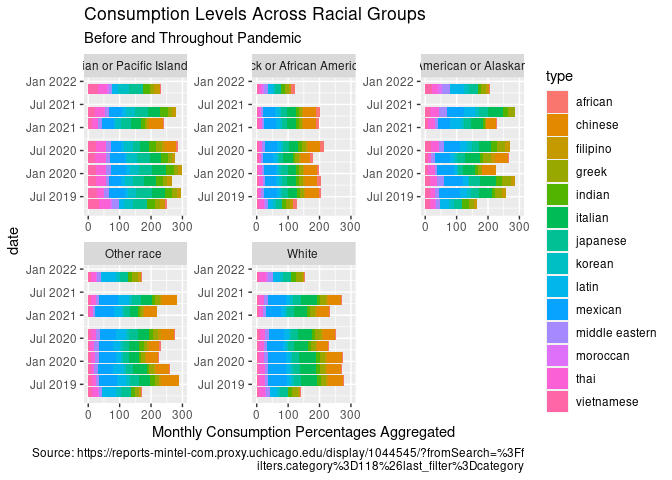
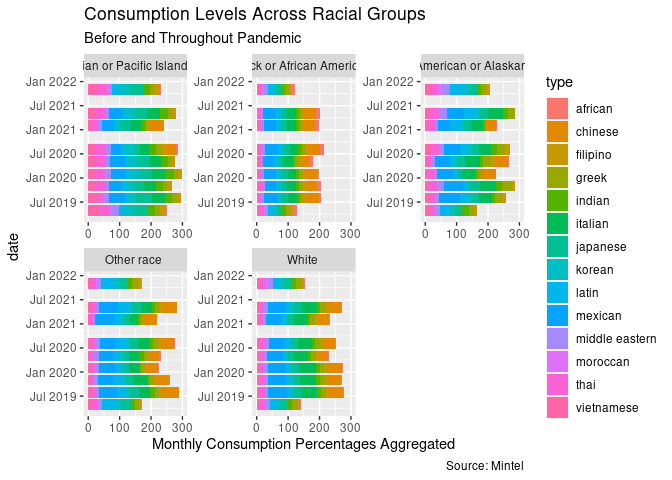
Small changes again

diff --git a/Exploratory-Data-Visualizations.md b/Exploratory-Data-Visualizations.md
@@ -19,8 +19,7 @@ consumer_data %>%
   labs(title = "Consumption Levels Across Ethnic Cuisines",
        subtitle = "Before and Throughout Pandemic",
        y = "Aggregated Percentages",
-       caption = "Source: https://reports-mintel-com.proxy.uchicago.edu/display/1044545/?fromSearch=%3Ff
-       ilters.category%3D118%26last_filter%3Dcategory")
+       caption = "Mintel")
 ```
 
     ## Warning: Removed 107 rows containing missing values (position_stack).
@@ -47,8 +46,7 @@ consumer_data %>%
   labs(title = "Consumption Levels Across Generations",
        subtitle = "Before and Throughout Pandemic",
        y = "Monthly Consumption Percentages Aggregated",
-       caption = "Source: https://reports-mintel-com.proxy.uchicago.edu/display/1044545/?fromSearch=%3Ff
-       ilters.category%3D118%26last_filter%3Dcategory")
+       caption = "Source:Mintel")
 ```
 
     ## Warning: Removed 7 rows containing missing values (geom_col).
@@ -71,8 +69,7 @@ consumer_data %>%
   labs(title = "Consumption Levels Across Racial Groups",
        subtitle = "Before and Throughout Pandemic",
        y = "Monthly Consumption Percentages Aggregated",
-       caption = "Source: https://reports-mintel-com.proxy.uchicago.edu/display/1044545/?fromSearch=%3Ff
-       ilters.category%3D118%26last_filter%3Dcategory")
+       caption = "Source: Mintel")
 ```
 
     ## Warning: Removed 18 rows containing missing values (geom_col).
@@ -95,8 +92,7 @@ consumer_data %>%
        subtitle = "Before pandemic and throughout", 
        x = "Region", 
        y = "Percent Consumption",
-       caption = "Source: https://reports-mintel-com.proxy.uchicago.edu/display/1044545/?fromSearch=%3Ff
-       ilters.category%3D118%26last_filter%3Dcategory")
+       caption = "Source: Mintel")
 ```
 
 ![](Exploratory-Data-Visualizations_files/figure-gfm/Boxplot%20of%20most%20pop%20by%20region-1.png)<!-- -->
